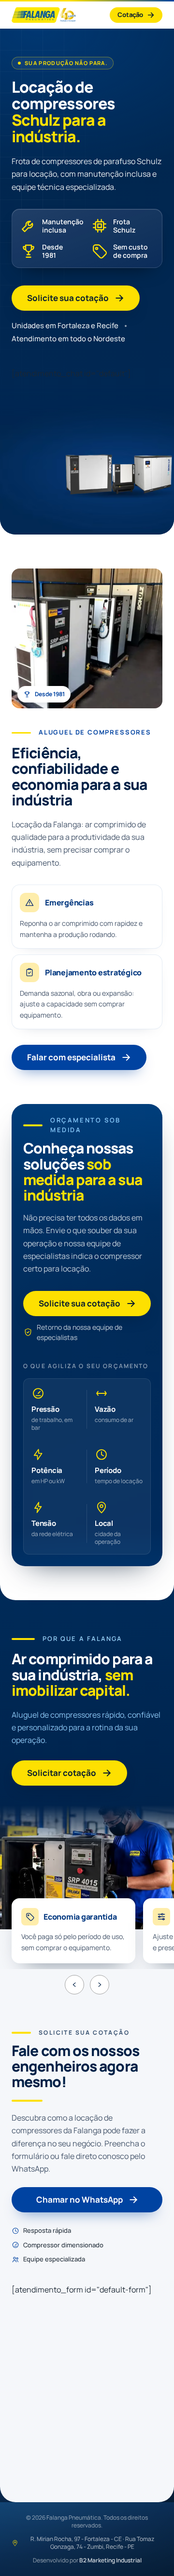
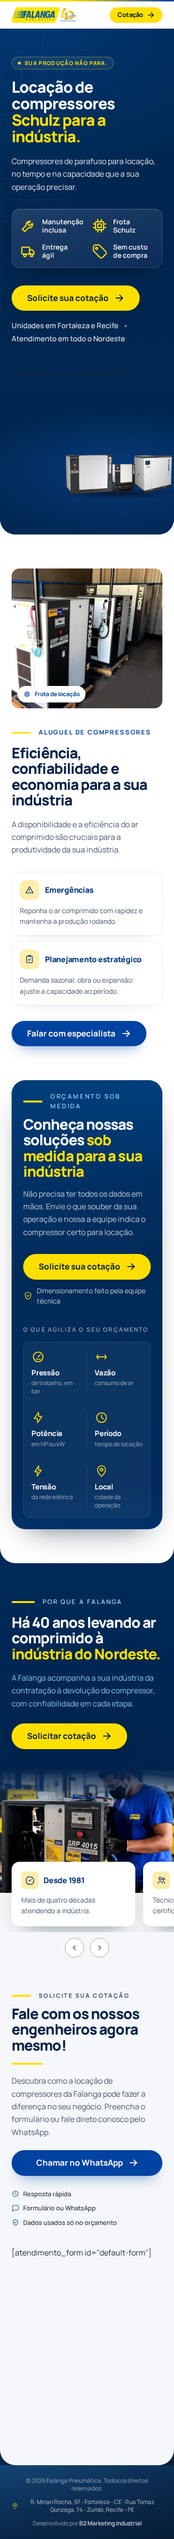
copy: sem repetição entre blocos e diferenciais institucionais
Hero e locação ficam com o comercial, painel e cotação com o orçamento e os diferenciais viram institucionais (Desde 1981, equipe própria, um só fornecedor, rede de ar, peças originais), como nas LPs de manutenção e parafuso.

diff --git a/src/data/sections/diferenciais.ts b/src/data/sections/diferenciais.ts
@@ -6,8 +6,8 @@
  *
  * Variante local, a mesma das LPs de parafuso, peças e manutenção (27/10/2026): a foto de
  * cenário (`cenario.jpg`, igual à das três) já traz o técnico, então não há pessoa recortada.
- * O CTA tem rótulo próprio (`cta`). Os 5 cards são os da LP antiga de locação, reescritos para
- * não repetir o hero nem o card de emergências da seção de locação.
+ * O CTA tem rótulo próprio (`cta`). Os 5 cards são institucionais, os mesmos argumentos de empresa
+ * das LPs de manutenção e parafuso (27/10/2026).
  */
 import type { IconName } from '@data/icons'
 import type { Photo } from '@data/types'
@@ -24,39 +24,44 @@ export interface Reason {
 export const why = {
   eyebrow: `Por que a ${site.brandShort}`,
   /** Cada item é uma linha do H2 (quebra forçada): as duas primeiras em branco, a última em amarelo. */
-  titleLines: ['Ar comprimido para', 'a sua indústria,', 'sem imobilizar capital.'],
+  titleLines: ['Há 40 anos levando', 'ar comprimido à', 'indústria do Nordeste.'],
   /** Cada `\n` é uma quebra forçada a partir de 1280px; abaixo disso o texto corre normal. */
-  text: 'Aluguel de compressores rápido, confiável e personalizado\npara a rotina da sua operação.',
+  text: 'A Falanga acompanha a sua indústria da contratação à\ndevolução do compressor, com confiabilidade em cada etapa.',
   cta: 'Solicitar cotação',
   scene: {
     src: cenario,
     alt: 'Técnico da Falanga em manutenção de um compressor de parafuso SRP 4015, com outros compressores ao fundo',
   },
+  /**
+   * Institucional e de autoridade, como nas LPs de parafuso e manutenção: quem é a Falanga, não o
+   * que a locação entrega. O comercial está no hero (manutenção inclusa, frota, entrega, custo) e
+   * na seção de locação (emergências, planejamento); o orçamento, no painel e na cotação.
+   */
   reasons: [
     {
-      icon: 'tag',
-      title: 'Economia garantida',
-      description: 'Você paga só pelo período de uso, sem comprar o equipamento.',
-    },
-    {
-      icon: 'sliders',
-      title: 'Adaptabilidade',
-      description: 'Ajuste a capacidade à demanda e preserve o caixa.',
-    },
-    {
-      icon: 'gauge',
-      title: 'Capacidade sob medida',
-      description: 'Dimensionado para a vazão e a pressão da operação.',
-    },
-    {
-      icon: 'truck',
-      title: 'Fornecimento ágil',
-      description: 'Equipamento da frota disponível para a sua operação.',
+      icon: 'badge-check',
+      title: 'Desde 1981',
+      description: 'Mais de quatro décadas atendendo a indústria.',
     },
     {
       icon: 'users',
-      title: 'Assistência contínua',
-      description: 'Suporte técnico especializado durante a locação.',
+      title: 'Equipe própria',
+      description: 'Técnicos capacitados e certificados.',
+    },
+    {
+      icon: 'layers',
+      title: 'Um só fornecedor',
+      description: 'Compressor, peças e manutenção na mesma parceria.',
+    },
+    {
+      icon: 'gear',
+      title: 'Rede de ar comprimido',
+      description: 'Projeto e execução da rede da sua planta.',
+    },
+    {
+      icon: 'shield',
+      title: 'Peças originais',
+      description: 'Componentes para manutenção e reposição.',
     },
   ],
 } as const satisfies {

diff --git a/src/data/content.ts b/src/data/content.ts
@@ -63,7 +63,7 @@ export const hero = {
    */
   title: 'Locação de compressores',
   tail: ['Schulz para a indústria.'],
-  text: 'Frota de compressores de parafuso Schulz para locação, com manutenção inclusa e equipe técnica especializada.',
+  text: 'Compressores de parafuso para locação, no tempo e na capacidade que a sua operação precisar.',
   /** Linha de área atendida abaixo do CTA, separada por ponto. */
   area: ['Unidades em Fortaleza e Recife', 'Atendimento em todo o Nordeste'],
   banner: {
@@ -73,7 +73,7 @@ export const hero = {
   points: [
     { icon: 'wrench', line1: 'Manutenção', line2: 'inclusa' },
     { icon: 'cpu', line1: 'Frota', line2: 'Schulz' },
-    { icon: 'trophy', line1: 'Desde', line2: '1981' },
+    { icon: 'truck', line1: 'Entrega', line2: 'ágil' },
     { icon: 'tag', line1: 'Sem custo', line2: 'de compra' },
   ],
 } as const satisfies {
@@ -94,8 +94,8 @@ export const quote = {
   text: 'Descubra como a locação de compressores da Falanga pode fazer a diferença no seu negócio. Preencha o formulário ou fale direto conosco pelo WhatsApp.',
   trust: [
     { icon: 'clock', label: 'Resposta rápida' },
-    { icon: 'gauge', label: 'Compressor dimensionado' },
-    { icon: 'users', label: 'Equipe especializada' },
+    { icon: 'chat', label: 'Formulário ou WhatsApp' },
+    { icon: 'shield', label: 'Dados usados só no orçamento' },
   ],
 } as const satisfies {
   eyebrow: string

diff --git a/src/data/sections/locacao.ts b/src/data/sections/locacao.ts
@@ -22,13 +22,13 @@ export interface RentalUse {
 export const rental = {
   eyebrow: 'Aluguel de compressores',
   title: 'Eficiência, confiabilidade e economia para a sua indústria',
-  text: 'Locação da Falanga: ar comprimido de qualidade para a produtividade da sua indústria, sem precisar comprar o equipamento.',
+  text: 'A disponibilidade e a eficiência do ar comprimido são cruciais para a produtividade da sua indústria.',
   photo: {
     src: frota,
     alt: 'Compressores de parafuso Schulz SRP 4030 da frota de locação da Falanga Pneumática instalados em sala de compressores',
   },
   /** Selo em pílula sobre a foto. */
-  badge: { icon: 'trophy', label: 'Desde 1981' },
+  badge: { icon: 'cpu', label: 'Frota de locação' },
   items: [
     {
       icon: 'alert',
@@ -38,8 +38,7 @@ export const rental = {
     {
       icon: 'clipboard-check',
       title: 'Planejamento estratégico',
-      description:
-        'Demanda sazonal, obra ou expansão: ajuste a capacidade sem comprar equipamento.',
+      description: 'Demanda sazonal, obra ou expansão: ajuste a capacidade ao período.',
     },
   ],
 } as const satisfies {

diff --git a/src/data/sections/identificar.ts b/src/data/sections/identificar.ts
@@ -22,8 +22,8 @@ export const supportPanel = {
   title: 'Conheça nossas soluções sob medida para a sua indústria',
   /** Trecho final do título, em amarelo (precisa existir dentro de `title`). */
   highlight: 'sob medida para a sua indústria',
-  text: 'Não precisa ter todos os dados em mãos. Envie o que souber da sua operação e nossa equipe de especialistas indica o compressor certo para locação.',
-  microcopy: 'Retorno da nossa equipe de especialistas',
+  text: 'Não precisa ter todos os dados em mãos. Envie o que souber da sua operação e nossa a equipe indica o compressor certo para locação.',
+  microcopy: 'Dimensionamento feito pela equipe técnica',
   /** Rótulo da faixa com os 6 dados. */
   itemsTitle: 'O que agiliza o seu orçamento',
   items: [

diff --git a/docs/BRIEFING.md b/docs/BRIEFING.md
@@ -61,21 +61,21 @@ Aplicada à mão em `22/10/2026` (a biblioteca de seções não está nesta past
 
 ## Entradas do núcleo
 
-| #   | Entrada                 | Status     | Valor                                                                                                                                                                                           | Observação                                         |
-| --- | ----------------------- | ---------- | ----------------------------------------------------------------------------------------------------------------------------------------------------------------------------------------------- | -------------------------------------------------- |
-| 1   | MARCA                   | extraído   | Falanga Pneumática                                                                                                                                                                              |                                                    |
-| 2   | MARCA_CURTA             | inferido   | Falanga                                                                                                                                                                                         | usada no title, para ficar abaixo de 70 caracteres |
-| 3   | PRODUTO_PRINCIPAL       | extraído   | Locação de compressores                                                                                                                                                                         |                                                    |
-| 4   | CONTEXTO_DE_USO         | inferido   | indústrias no Nordeste                                                                                                                                                                          |                                                    |
-| 6   | HERO                    | decidido   | H1 "Locação de Compressores" na pílula; manchete "Sua produção não para. / Compressores para alugar."; 4 pontos (Manutenção inclusa, Frota Schulz, Desde 1981, Fortaleza e Recife) (27/10/2026) |
-| 7   | MARCAS_ATENDIDAS        | decidido   | Logo Schulz no header, ao lado da Falanga, como na LP de parafuso (pedido do usuário, 27/10/2026); sem logo Schulz nos diferenciais e no rodapé                                                 |
-| 8   | SELOS_DE_CONFIANCA      | decidido   | Manutenção inclusa · Desde 1981 · Fortaleza e Recife (hero); itens da cotação: Resposta rápida, Compressor dimensionado, Sem custo de compra                                                    |
-| 9   | ENDERECO                | decidido   | R. Mirian Rocha, 97 - Fortaleza - CE · Rua Tomaz Gonzaga, 74 - Zumbi, Recife - PE (igual às outras LPs Falanga)                                                                                 |
-| 10  | URL_FINAL + PRIVACIDADE | decidido   | `https://falangapneumatica.com.br/locacao-de-compressores/` (27/10/2026; a página `-2025` precisa ser substituída ou redirecionada) · sem política de privacidade                               |
-| 11  | SHORTCODES              | default    | `[atendimento_chat id="default"]` · `[atendimento_form id="default-form"]`                                                                                                                      |                                                    |
-| 12  | WHATSAPP                | default    | sem botão flutuante                                                                                                                                                                             | (85) 98129-5507 não confirmado como WhatsApp       |
-| 14  | TOKENS_DE_COR + FONTE   | confirmado | azul `brand` #0043ad, amarelo `brand-yellow` #ffe300 e navy #001641, amostrados do mockup do hero (22/10/2026); `brand-blue`/`brand-yellow-soft` das outras LPs Falanga (27/10/2026); Manrope   | a logo usa #2858a8 / #f8e818, mais apagados        |
-| 15  | CAMPANHA                | inferido   | locação de compressores                                                                                                                                                                         |                                                    |
+| #   | Entrada                 | Status     | Valor                                                                                                                                                                                                                                                                                                    | Observação                                         |
+| --- | ----------------------- | ---------- | -------------------------------------------------------------------------------------------------------------------------------------------------------------------------------------------------------------------------------------------------------------------------------------------------------- | -------------------------------------------------- |
+| 1   | MARCA                   | extraído   | Falanga Pneumática                                                                                                                                                                                                                                                                                       |                                                    |
+| 2   | MARCA_CURTA             | inferido   | Falanga                                                                                                                                                                                                                                                                                                  | usada no title, para ficar abaixo de 70 caracteres |
+| 3   | PRODUTO_PRINCIPAL       | extraído   | Locação de compressores                                                                                                                                                                                                                                                                                  |                                                    |
+| 4   | CONTEXTO_DE_USO         | inferido   | indústrias no Nordeste                                                                                                                                                                                                                                                                                   |                                                    |
+| 6   | HERO                    | decidido   | Pílula "Sua produção não para."; H1 "Locação de compressores / Schulz para a indústria."; pontos: Manutenção inclusa, Frota Schulz, Entrega ágil, Sem custo de compra; área atendida sob o botão (27/10/2026)                                                                                            |
+| 7   | MARCAS_ATENDIDAS        | decidido   | Logo Schulz no header, ao lado da Falanga, como na LP de parafuso (pedido do usuário, 27/10/2026); sem logo Schulz nos diferenciais e no rodapé                                                                                                                                                          |
+| 8   | SELOS_DE_CONFIANCA      | decidido   | Sem repetição entre blocos (27/10/2026): hero = comercial; locação = emergências e planejamento; painel e cotação = orçamento (resposta rápida, formulário ou WhatsApp, dados só no orçamento); diferenciais = institucional (Desde 1981, equipe própria, um só fornecedor, rede de ar, peças originais) |
+| 9   | ENDERECO                | decidido   | R. Mirian Rocha, 97 - Fortaleza - CE · Rua Tomaz Gonzaga, 74 - Zumbi, Recife - PE (igual às outras LPs Falanga)                                                                                                                                                                                          |
+| 10  | URL_FINAL + PRIVACIDADE | decidido   | `https://falangapneumatica.com.br/locacao-de-compressores/` (27/10/2026; a página `-2025` precisa ser substituída ou redirecionada) · sem política de privacidade                                                                                                                                        |
+| 11  | SHORTCODES              | default    | `[atendimento_chat id="default"]` · `[atendimento_form id="default-form"]`                                                                                                                                                                                                                               |                                                    |
+| 12  | WHATSAPP                | default    | sem botão flutuante                                                                                                                                                                                                                                                                                      | (85) 98129-5507 não confirmado como WhatsApp       |
+| 14  | TOKENS_DE_COR + FONTE   | confirmado | azul `brand` #0043ad, amarelo `brand-yellow` #ffe300 e navy #001641, amostrados do mockup do hero (22/10/2026); `brand-blue`/`brand-yellow-soft` das outras LPs Falanga (27/10/2026); Manrope                                                                                                            | a logo usa #2858a8 / #f8e818, mais apagados        |
+| 15  | CAMPANHA                | inferido   | locação de compressores                                                                                                                                                                                                                                                                                  |                                                    |
 
 ## Assets
 
@@ -101,9 +101,9 @@ Já no padrão (cores iguais às das outras três LPs, `brand-blue` no lugar de 
 
 ## Pendências para o cliente
 
-1. **Marca dos compressores:** a LP antiga dizia "Compressores Ingersoll Rand" no card "Alta tecnologia" e "SCHULZ" no resto da página e em todas as imagens. O card foi reescrito (Capacidade sob medida) e a Schulz só aparece em texto.
+1. **Marca dos compressores:** a LP antiga dizia "Compressores Ingersoll Rand" no card "Alta tecnologia" e "SCHULZ" no resto da página e em todas as imagens. O card saiu; a Schulz aparece só em texto, além da logo do header.
 2. Logo Falanga em alta resolução (ou vetor) e a foto da frota em tamanho original.
-3. Validar os 6 dados do orçamento (Pressão, Vazão, Potência, Período, Tensão, Local) e as descrições dos cards "Emergências" e "Planejamento estratégico".
+3. Confirmar com a Falanga os cards institucionais dos diferenciais (rede de ar comprimido, peças originais, equipe certificada: vieram das LPs de manutenção e parafuso) e validar os 6 dados do orçamento (Pressão, Vazão, Potência, Período, Tensão, Local) e as descrições dos cards "Emergências" e "Planejamento estratégico".
 4. Substituir ou redirecionar a página `-2025`, política de privacidade e confirmar se (85) 98129-5507 é o WhatsApp comercial. Autorização de uso da marca Schulz (a logo está no header; no restante da página a Schulz aparece só em texto).
 5. Material de prova (clientes atendidos, números com fonte, depoimentos) para preencher a fase vazia.
 
